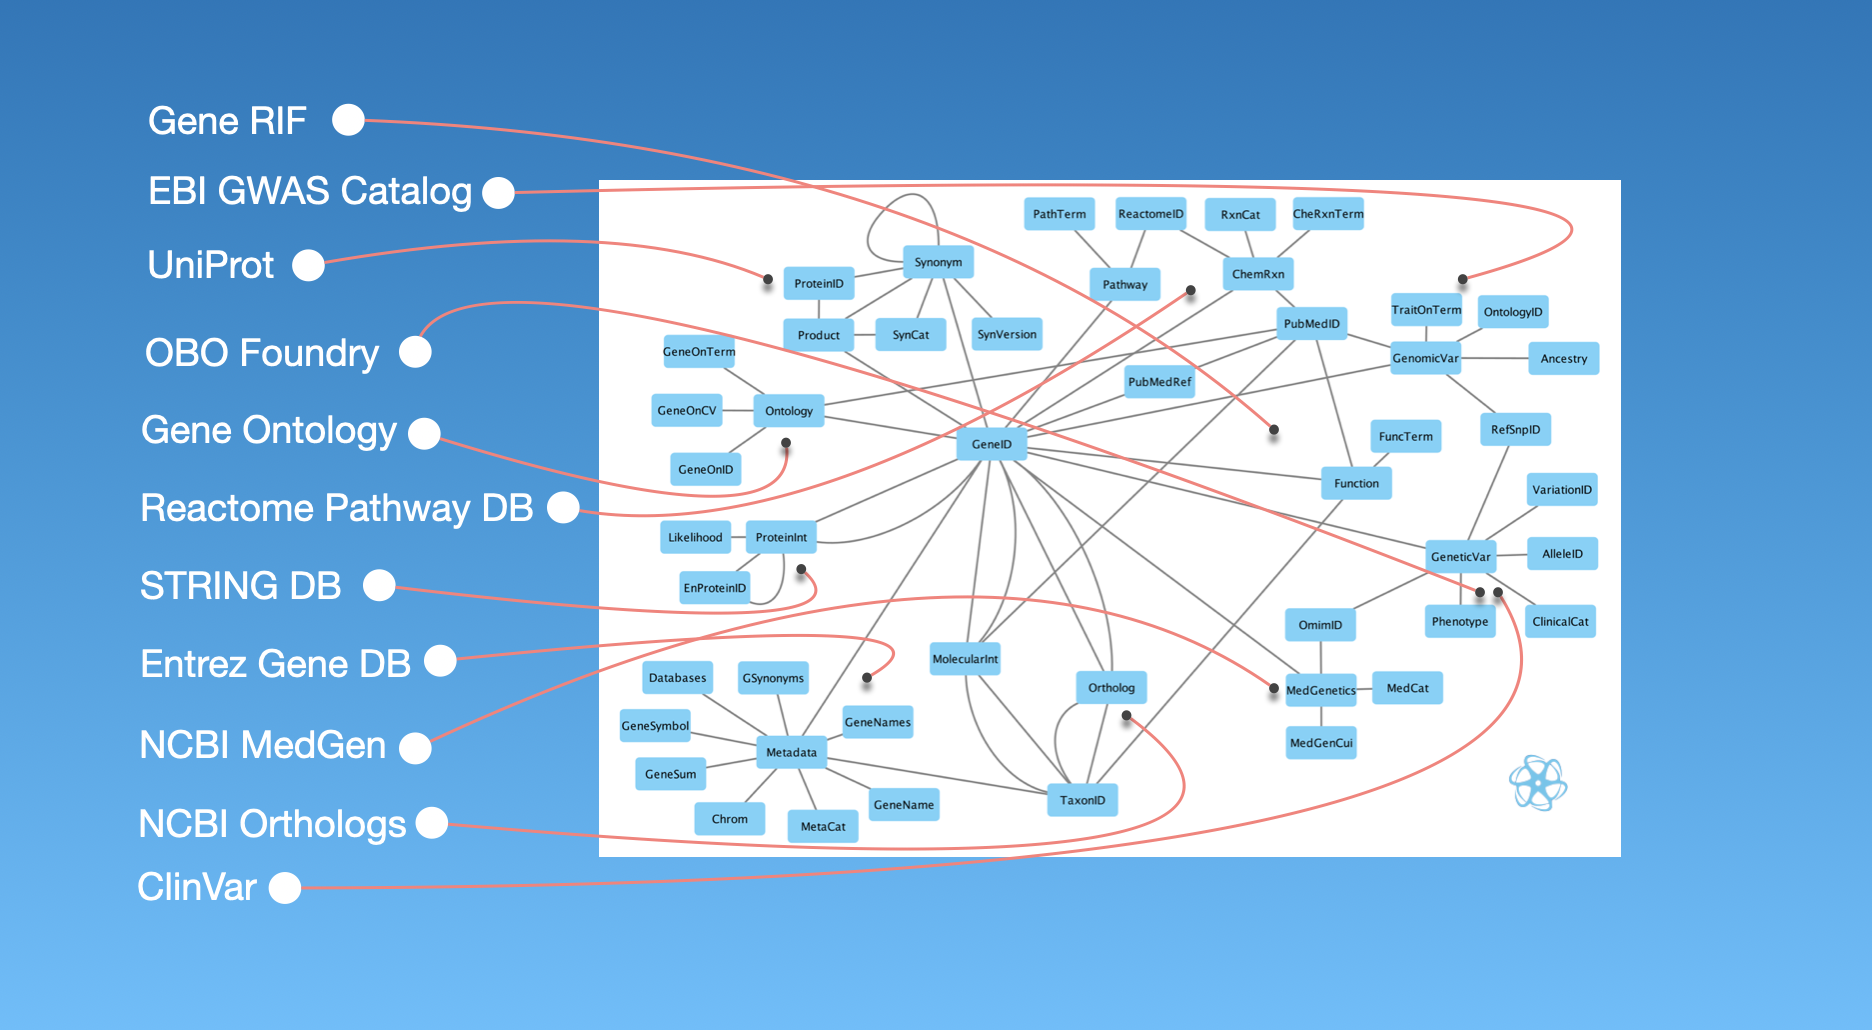
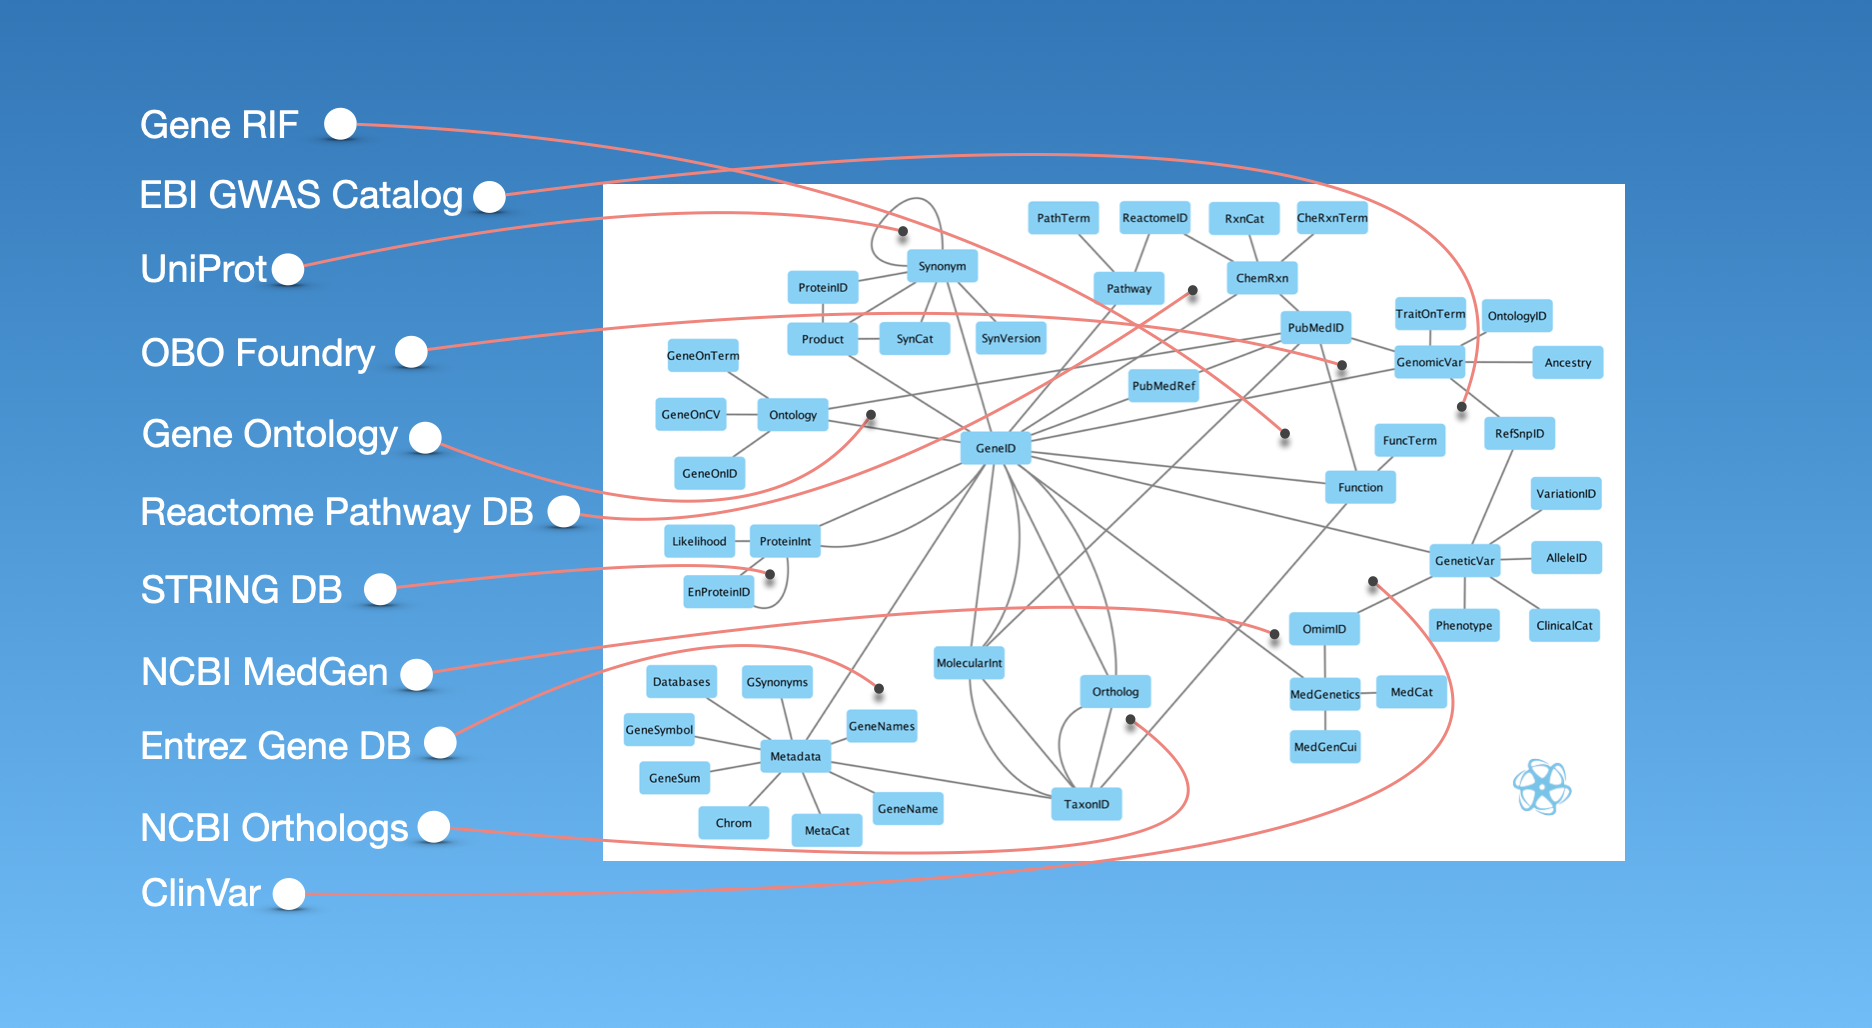
Added documentation and improvements.

Changed region(s): [[0.062, 0.0934, 0.8675, 0.9027], [0.062, 0.249, 0.1859, 0.2802]]

diff --git a/README.md b/README.md
@@ -2,14 +2,177 @@
 
 # interlace-ex
 
-Interlace Go examples with applications for human gene datasets.
+Welcome to **interlace-ex**! An educational repository consisting of **interlace-go** applications for consolidating human gene data, including products, interactants, genetic variants, and disease.
 
 ![interlace-ex](assets/interlace-ex.png)
 
 ## Contents
 
-- [Introduction](#1-introduction)
+1) [Introduction](#1-introduction)
+2) [Data Providers](#2-data-providers)
+3) [Data Creators and Peer-reviewed Journal References](#3-data-creators-and-peer-reviewed-journal-references)
+4) Cloning
+5) Compiling
+6) Downloading
+7) Interlacing
+8) Innovating
 
 ### 1. Introduction
 
-The software engineering outcome discussed in this repository, **interlace-ex**, consolidates 57 GB of uncompressed gene and disease information into 1.4 GB of refined **interlace-go** binary data assets. 15 Go [applications](./cmd/README.md) are created to demonstrate how to use the **interlace-go** [packages](https://github.com/sas-quantome/interlace-go).
+The software engineering outcome of **interlace-ex** consolidates 57 GB of uncompressed gene and disease information into 1.4 GB of refined **interlace-go** binary data assets, ready to load into memory and power up basic research. Consolidation and data refinement take less than five minutes on a modern personal computer. This enables daily updates across [23 IP addresses](configs/input/url.txt). Nonetheless, this work aims to help innovators learn to use the **interlace-go** packages to create tailor-made datastacks in any data domain. 
+
+15 Go programs are offered as code examples to guide the use of **interlace-go** for writing command-line applications. The program [examples](./cmd) create one **Interlace Entity**, named *Gene*, and 14 **Interlace Assets**:
+
+1) Gene Product
+2) Gene Synonym
+3) Gene Metadata
+4) Gene PubMed Reference
+5) Gene Function
+6) Gene Ontology
+7) Gene Medical Genetics
+8) Gene Ortholog
+9) Gene Molecular Interaction
+10) Gene Genetic Variation
+11) Gene Genomic Variation & Ancestry
+12) Gene Pathway
+13) Gene Chemical Reaction
+14) Gene Protein Interaction
+
+The **interlace-ex** repository provides tools to crystallize knowledge from all known genes in the human genome, along with code examples to help you build your own **interlace-go** data assets. 
+
+### 2. Data Providers
+
+- [Ancestry category label distribution in the GWAS Catalog](https://www.ebi.ac.uk/gwas/docs/ancestry-data)
+- [NCBI ClinVar](https://www.ncbi.nlm.nih.gov/clinvar/)
+- [EBI GWAS Catalog](https://www.ebi.ac.uk/gwas/)
+- [Gender, Sex, and Sexual Orientation ontology](https://obofoundry.org/ontology/gsso.html)
+- [NCBI GeneRIF](https://www.ncbi.nlm.nih.gov/gene/about-generif)
+- [Gene Ontology](https://www.geneontology.org/)
+- [Human Phenotype Ontology](https://hpo.jax.org/)
+- [NCBI MedGen](https://www.ncbi.nlm.nih.gov/medgen/)
+- [Mondo Disease Ontology](https://mondo.monarchinitiative.org/)
+- [NCBI Gene DB](https://www.ncbi.nlm.nih.gov/gene/)
+- [Ontology of Biological Attributes](https://github.com/obophenotype/bio-attribute-ontology)
+- [Open Biological and Biomedical Ontology Foundry](https://obofoundry.org/)
+- [Reactome](https://reactome.org/)
+- [STRING DB](https://string-db.org/)
+- [UniProt](https://www.uniprot.org/)
+
+### 3. Data Creators and Peer-reviewed Journal References
+
+
+#### [A standardized framework for representation of ancestry data in genomics studies, with application to the NHGRI-EBI GWAS Catalog.](https://pubmed.ncbi.nlm.nih.gov/29448949/)
+
+Morales J, Welter D, Bowler EH, Cerezo M, Harris LW, McMahon AC, Hall P, Junkins HA, Milano A, Hastings E, Malangone C, Buniello A, Burdett T, Flicek P, Parkinson H, Cunningham F, Hindorff LA, MacArthur JAL.
+
+Genome Biol. 2018 Feb 15;19(1):21.
+
+doi: 10.1186/s13059-018-1396-2. PMID: 29448949; PMCID: PMC5815218.
+
+
+#### [ClinVar: public archive of relationships among sequence variation and human phenotype.](https://pubmed.ncbi.nlm.nih.gov/24234437/)
+
+Landrum MJ, Lee JM, Riley GR, Jang W, Rubinstein WS, Church DM, Maglott DR.
+
+Nucleic Acids Res. 2014 Jan; 42 (Database issue): D980-5.
+
+doi: 10.1093/nar/gkt1113. Epub 2013 Nov 14. PMID: 24234437; PMCID: PMC3965032.
+
+
+#### [The Human Phenotype Ontology in 2024: phenotypes around the world.](https://pubmed.ncbi.nlm.nih.gov/37953324/)
+
+Gargano MA, Matentzoglu N, Coleman B, Addo-Lartey EB, Anagnostopoulos AV, Anderton J, Avillach P, Bagley AM, Bakštein E, Balhoff JP, Baynam G, Bello SM, Berk M, Bertram H, Bishop S, Blau H, Bodenstein DF, Botas P, Boztug K, Čady J, Callahan TJ, Cameron R, Carbon SJ, Castellanos F, Caufield JH, Chan LE, Chute CG, Cruz-Rojo J, Dahan-Oliel N, Davids JR, de Dieuleveult M, de Souza V, de Vries BBA, de Vries E, DePaulo JR, Derfalvi B, Dhombres F, Diaz-Byrd C, Dingemans AJM, Donadille B, Duyzend M, Elfeky R, Essaid S, Fabrizzi C, Fico G, Firth HV, Freudenberg-Hua Y, Fullerton JM, Gabriel DL, Gilmour K, Giordano J, Goes FS, Moses RG, Green I, Griese M, Groza T, Gu W, Guthrie J, Gyori B, Hamosh A, Hanauer M, Hanušová K, He YO, Hegde H, Helbig I, Holasová K, Hoyt CT, Huang S, Hurwitz E, Jacobsen JOB, Jiang X, Joseph L, Keramatian K, King B, Knoflach K, Koolen DA, Kraus ML, Kroll C, Kusters M, Ladewig MS, Lagorce D, Lai MC, Lapunzina P, Laraway B, Lewis-Smith D, Li X, Lucano C, Majd M, Marazita ML, Martinez-Glez V, McHenry TH, McInnis MG, McMurry JA, Mihulová M, Millett CE, Mitchell PB, Moslerová V, Narutomi K, Nematollahi S, Nevado J, Nierenberg AA, Čajbiková NN, Nurnberger JI Jr, Ogishima S, Olson D, Ortiz A, Pachajoa H, Perez de Nanclares G, Peters A, Putman T, Rapp CK, Rath A, Reese J, Rekerle L, Roberts AM, Roy S, Sanders SJ, Schuetz C, Schulte EC, Schulze TG, Schwarz M, Scott K, Seelow D, Seitz B, Shen Y, Similuk MN, Simon ES, Singh B, Smedley D, Smith CL, Smolinsky JT, Sperry S, Stafford E, Stefancsik R, Steinhaus R, Strawbridge R, Sundaramurthi JC, Talapova P, Tenorio Castano JA, Tesner P, Thomas RH, Thurm A, Turnovec M, van Gijn ME, Vasilevsky NA, Vlčková M, Walden A, Wang K, Wapner R, Ware JS, Wiafe AA, Wiafe SA, Wiggins LD, Williams AE, Wu C, Wyrwoll MJ, Xiong H, Yalin N, Yamamoto Y, Yatham LN, Yocum AK, Young AH, Yüksel Z, Zandi PP, Zankl A, Zarante I, Zvolský M, Toro S, Carmody LC, Harris NL, Munoz-Torres MC, Danis D, Mungall CJ, Köhler S, Haendel MA, Robinson PN.
+
+Nucleic Acids Res. 2024 Jan 5;52(D1):D1333-D1346.
+
+doi: 10.1093/nar/gkad1005. PMID: 37953324; PMCID: PMC10767975.
+
+
+#### [Gene: a gene-centered information resource at NCBI.](https://pubmed.ncbi.nlm.nih.gov/25355515/)
+
+Brown GR, Hem V, Katz KS, Ovetsky M, Wallin C, Ermolaeva O, Tolstoy I, Tatusova T, Pruitt KD, Maglott DR, Murphy TD.
+
+Nucleic Acids Res. 2015 Jan; 43 (Database issue): D36-42.
+
+doi: 10.1093/nar/gku1055. Epub 2014 Oct 29. PMID: 25355515; PMCID: PMC4383897.
+
+
+#### [The Gene Ontology knowledgebase in 2023.](https://pubmed.ncbi.nlm.nih.gov/36866529/)
+
+Gene Ontology Consortium; Aleksander SA, Balhoff J, Carbon S, Cherry JM, Drabkin HJ, Ebert D, Feuermann M, Gaudet P, Harris NL, Hill DP, Lee R, Mi H, Moxon S, Mungall CJ, Muruganugan A, Mushayahama T, Sternberg PW, Thomas PD, Van Auken K, Ramsey J, Siegele DA, Chisholm RL, Fey P, Aspromonte MC, Nugnes MV, Quaglia F, Tosatto S, Giglio M, Nadendla S, Antonazzo G, Attrill H, Dos Santos G, Marygold S, Strelets V, Tabone CJ, Thurmond J, Zhou P, Ahmed SH, Asanitthong P, Luna Buitrago D, Erdol MN, Gage MC, Ali Kadhum M, Li KYC, Long M, Michalak A, Pesala A, Pritazahra A, Saverimuttu SCC, Su R, Thurlow KE, Lovering RC, Logie C, Oliferenko S, Blake J, Christie K, Corbani L, Dolan ME, Drabkin HJ, Hill DP, Ni L, Sitnikov D, Smith C, Cuzick A, Seager J, Cooper L, Elser J, Jaiswal P, Gupta P, Jaiswal P, Naithani S, Lera-Ramirez M, Rutherford K, Wood V, De Pons JL, Dwinell MR, Hayman GT, Kaldunski ML, Kwitek AE, Laulederkind SJF, Tutaj MA, Vedi M, Wang SJ, D'Eustachio P, Aimo L, Axelsen K, Bridge A, Hyka-Nouspikel N, Morgat A, Aleksander SA, Cherry JM, Engel SR, Karra K, Miyasato SR, Nash RS, Skrzypek MS, Weng S, Wong ED, Bakker E, Berardini TZ, Reiser L, Auchincloss A, Axelsen K, Argoud-Puy G, Blatter MC, Boutet E, Breuza L, Bridge A, Casals-Casas C, Coudert E, Estreicher A, Livia Famiglietti M, Feuermann M, Gos A, Gruaz-Gumowski N, Hulo C, Hyka-Nouspikel N, Jungo F, Le Mercier P, Lieberherr D, Masson P, Morgat A, Pedruzzi I, Pourcel L, Poux S, Rivoire C, Sundaram S, Bateman A, Bowler-Barnett E, Bye-A-Jee H, Denny P, Ignatchenko A, Ishtiaq R, Lock A, Lussi Y, Magrane M, Martin MJ, Orchard S, Raposo P, Speretta E, Tyagi N, Warner K, Zaru R, Diehl AD, Lee R, Chan J, Diamantakis S, Raciti D, Zarowiecki M, Fisher M, James-Zorn C, Ponferrada V, Zorn A, Ramachandran S, Ruzicka L, Westerfield M.
+
+Genetics. 2023 May 4;224(1):iyad031.
+
+doi: 10.1093/genetics/iyad031. PMID: 36866529; PMCID: PMC10158837.
+
+
+#### [GeneRIF indexing: sentence selection based on machine learning.](https://pubmed.ncbi.nlm.nih.gov/23725347/)
+
+Jimeno-Yepes AJ, Sticco JC, Mork JG, Aronson AR.
+
+BMC Bioinformatics. 2013 May 31;14:171.
+
+doi: 10.1186/1471-2105-14-171. PMID: 23725347; PMCID: PMC3687823.
+
+
+#### [MedGen: NCBI's Portal to Information on Medical Conditions with a Genetic Component.](https://pubmed.ncbi.nlm.nih.gov/32329672/)
+
+Louden DN.
+
+Med Ref Serv Q. 2020 Apr-Jun; 39(2): 183-191.
+
+doi: 10.1080/02763869.2020.1726152. PMID: 32329672.
+
+
+#### [Mondo: Integrating Disease Terminology Across Communities.](https://pubmed.ncbi.nlm.nih.gov/41052288/)
+
+Vasilevsky NA, Toro S, Matentzoglu N, Flack JE, Mullen KR, Hegde H, Gehrke S, Whetzel PL, Shwetar Y, Harris NL, Ngu MS, Alyea GL, Kane MS, Roncaglia P, Sid E, Thaxton CL, Wood V, Abraham RS, Achatz MI, Ajuyah P, Amberger JS, Babb L, Baker J, Balhoff JP, Berg JS, Bhalla A, Bofill-De Ros X, Braun IR, Broeren EC, Byer BK, Byrne AB, Callahan TJ, Carmody LC, Chan LE, Clause AR, Cohen JS, DeLuca M, Deuitch NT, Flowers M, Fraser J, Fujiwara T, Gitau V, Goldstein JL, Gration D, Groza T, Gyori BM, Hankey W, Hilton JA, Himmelstein DS, Hong SS, Hoyt CT, Huether R, Hurwitz E, Jacobsen JOB, Kikuchi A, Köhler S, Korn DR, Lagorce D, Laraway BJ, Li JY, Malheiro AJ, McLaughlin J, Meldal BHM, Mohan S, Moxon SAT, Munoz-Torres MC, Nelson TH, Nicholas FW, Ochoa D, Olson D, Oprea TI, Oskotsky TT, Osumi-Sutherland D, Paris K, Parkinson HE, Pendlington ZM, Peng XP, Pizzino A, Plon SE, Powell BC, Ratliff JC, Rehm HL, Remennik L, Riggs ER, Roberts S, Robinson PN, Ross JE, Schaper K, Schilder BM, Schmidt JL, Sharp EW, Similuk MN, Smedley D, Sneddon TP, Sparks R, Stefancsik R, Stupp GS, Sundar S, Takatsuki T, Tammen I, Tshering KC, Unni DR, Valasek E, Vanderver A, Wagner AH, Webb RF, Welter D, Yaya-Stupp D, Zankl A, Zhang XA, McMurry JA, Chute CG, Hamosh A, Mungall CJ, Haendel MA.
+
+Genetics. 2025 Oct 6:iyaf215.
+
+doi: 10.1093/genetics/iyaf215. Epub ahead of print. PMID: 41052288.
+
+
+#### [The NHGRI-EBI GWAS Catalog: standards for reusability, sustainability, and diversity.](https://pubmed.ncbi.nlm.nih.gov/39530240/)
+
+Cerezo M, Sollis E, Ji Y, Lewis E, Abid A, Bircan KO, Hall P, Hayhurst J, John S, Mosaku A, Ramachandran S, Foreman A, Ibrahim A, McLaughlin J, Pendlington Z, Stefancsik R, Lambert SA, McMahon A, Morales J, Keane T, Inouye M, Parkinson H, Harris LW.
+
+Nucleic Acids Res. 2025 Jan 6; 53(D1): D998-D1005.
+
+doi: 10.1093/nar/gkae1070. PMID: 39530240; PMCID: PMC11701593.
+
+
+#### [The Ontology of Biological Attributes (OBA)-computational traits for the life sciences.](https://pubmed.ncbi.nlm.nih.gov/37076585/)
+
+Stefancsik R, Balhoff JP, Balk MA, Ball RL, Bello SM, Caron AR, Chesler EJ, de Souza V, Gehrke S, Haendel M, Harris LW, Harris NL, Ibrahim A, Koehler S, Matentzoglu N, McMurry JA, Mungall CJ, Munoz-Torres MC, Putman T, Robinson P, Smedley D, Sollis E, Thessen AE, Vasilevsky N, Walton DO, Osumi-Sutherland D.
+
+Mamm Genome. 2023 Sep;34(3):364-378.
+
+doi: 10.1007/s00335-023-09992-1. Epub 2023 Apr 19. PMID: 37076585; PMCID: PMC10382347.
+
+
+#### [The Reactome Pathway Knowledgebase 2024.](https://pubmed.ncbi.nlm.nih.gov/37941124/)
+
+Milacic M, Beavers D, Conley P, Gong C, Gillespie M, Griss J, Haw R, Jassal B, Matthews L, May B, Petryszak R, Ragueneau E, Rothfels K, Sevilla C, Shamovsky V, Stephan R, Tiwari K, Varusai T, Weiser J, Wright A, Wu G, Stein L, Hermjakob H, D'Eustachio P.
+
+Nucleic Acids Res. 2024 Jan 5; 52(D1): D672-D678.
+
+doi: 10.1093/nar/gkad1025. PMID: 37941124; PMCID: PMC10767911.
+
+
+#### [The STRING database in 2023: protein-protein association networks and functional enrichment analyses for any sequenced genome of interest.](https://pubmed.ncbi.nlm.nih.gov/36370105/)
+
+Szklarczyk D, Kirsch R, Koutrouli M, Nastou K, Mehryary F, Hachilif R, Gable AL, Fang T, Doncheva NT, Pyysalo S, Bork P, Jensen LJ, von Mering C.
+
+Nucleic Acids Res. 2023 Jan 6; 51(D1): D638-D646.
+
+doi: 10.1093/nar/gkac1000. PMID: 36370105; PMCID: PMC9825434.
+
+
+#### [UniProt: the Universal Protein Knowledgebase in 2025.](https://pubmed.ncbi.nlm.nih.gov/39552041/)
+
+UniProt Consortium.
+
+Nucleic Acids Res. 2025 Jan 6; 53(D1): D609-D617.
+
+doi: 10.1093/nar/gkae1010. PMID: 39552041; PMCID: PMC11701636.
